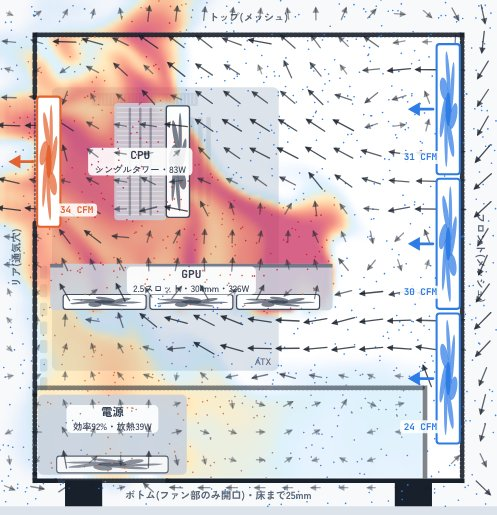
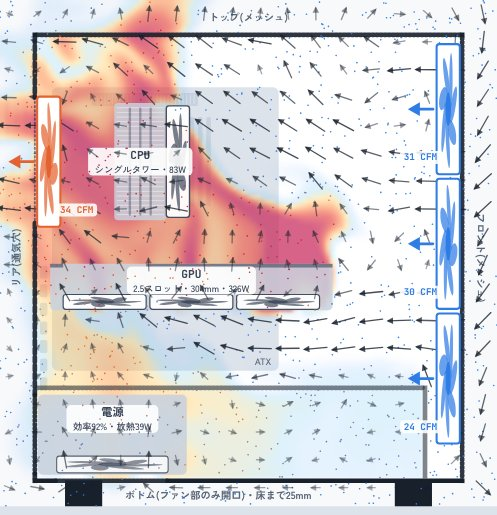
RTX 5070 のGPU温度の補正を見直し(k 0.88→1.10)
5070 のGPU温度が高めに出ていたため、チップの補正を変更。根拠は実測ではなく、
レビューで一般的な温度帯についての目安(出典の照合なし)。DIAG_VER を
sheet-v67-gpu5070 に上げ、掲載中の10台を2Dで計算し直した(変わったのは5070の2台)。

Claude-Session: https://claude.ai/code/session_01ERtSn7VZWDV2BMFwCw7guZ

diff --git a/pc-sheet/index.html b/pc-sheet/index.html
@@ -1970,7 +1970,7 @@ const GPU_CHIPS=[
   {key:'5090',name:'GeForce RTX 5090',re:/5090/,tgp:575,die:750,vram:'VRAM 32GB'},
   {key:'5080',name:'GeForce RTX 5080',re:/5080/,tgp:360,die:378,vram:'VRAM 16GB'},
   {key:'5070ti',name:'GeForce RTX 5070 Ti',re:/5070\s*ti/i,tgp:300,die:378,vram:'VRAM 16GB',k:0.75},
-  {key:'5070',name:'GeForce RTX 5070',re:/5070/,tgp:250,die:263,vram:'VRAM 12GB',k:0.88},
+  {key:'5070',name:'GeForce RTX 5070',re:/5070/,tgp:250,die:263,vram:'VRAM 12GB',k:1.10,kSrc:'レビューで一般的な温度の傾向(目安)'},   // k: see GPU_CALIB (2026-11-15)
   {key:'5060ti',name:'GeForce RTX 5060 Ti',re:/5060\s*ti/i,tgp:180,die:181,vram:'VRAM 16GB',vrams:[8,16],k:0.70},   // 8 GB and 16 GB: same board power (NVIDIA); k: see GPU_CALIB
   {key:'5060',name:'GeForce RTX 5060',re:/5060/,tgp:145,die:181,vram:'VRAM 8GB',k:0.70},
   {key:'rtxpro4000sff',name:'NVIDIA RTX PRO 4000 Blackwell SFF',re:/RTX\s*PRO\s*4000\b.*\bSFF|PRO\s*4000\s*SFF/i,tgp:70,die:378,vram:'VRAM 24GB'},   // 70 W: ark-pc.co.jp 20107760 (2026-10-25). die: GB203 assumed (378 mm², not checked against a source); no in-case measurements, so k = 1
@@ -1987,7 +1987,12 @@ const GPU_CHIPS=[
    the fan % taken from the measured rpm. 5060/5060 Ti stay 0.70 (5 cards, median 0.72); 5070 0.88 (1 card), 5070 Ti 0.75
    (1 card); 5080 stays 1.0 (the user's machine and TUF agree); 5090 left at 1.0 (1 card, 1.11); RX 9060 XT 0.92 (2 cards);
    RX 9070 XT 1.15 (2 cards) and RX 9070 the same die. Radeon report the edge temperature, about 20 °C under the hotspot,
-   which is why their k is above 1. Records (private notes): gpu_calib_chips_20261013.md */
+   which is why their k is above 1. Records (private notes): gpu_calib_chips_20261013.md
+   2026-11-15: RTX 5070 0.88 → 1.10 at the author's request (the sheet read high for this chip). Not a measurement: it is the
+   assistant's general knowledge of where RTX 5070 cards usually sit in reviews at their stock fan speed (large 3-fan about
+   58-63 °C, mid 3-fan 62-67 °C, 2-fan 66-72 °C, Founders Edition mid-70s at ~25 °C room; ±4 °C, no source checked).
+   That range alone would give about 1.2; 1.10 keeps the sheet on the warm side and is close to what the RTX 5080 fit (k = 1)
+   implies for this die and power (~1.0). The one hwcooling card that gave 0.88 now reads about 6 °C under its measurement. */
 const GPU_CALIB_SRC='hwcooling.net のケース内実測';
 function chipOf(name){if(!name)return null;for(const c of GPU_CHIPS)if(c.re.test(name))return c;return null;}
 function chipByKey(k){return GPU_CHIPS.find(c=>c.key===k)||null;}
@@ -4789,7 +4794,7 @@ function renderPartsUI(){
   $('radposbox').hidden=c.type!=='aio';$('radpos').value=state.radPos;
   // graphics card
   const row=gpuRow(), chip=row?chipOf(row.name):null, gb=state.gpuBrand;
-  $('g-chip').textContent=!row?'構成表にGPUの行がありません。':chip?`構成表のGPU:${chip.name}${chip.vrams?` ${rowVram(row,chip)}GB`:''}(標準 ${chipTgp(chip,rowVram(row,chip))}W${chip.k?`・冷え方は${GPU_CALIB_SRC}で補正`:''})`:`構成表のGPU:${row.name||'未入力'}(製品データがないため一般的なサイズで計算)`;
+  $('g-chip').textContent=!row?'構成表にGPUの行がありません。':chip?`構成表のGPU:${chip.name}${chip.vrams?` ${rowVram(row,chip)}GB`:''}(標準 ${chipTgp(chip,rowVram(row,chip))}W${chip.k?`・冷え方は${chip.kSrc||GPU_CALIB_SRC}で補正`:''})`:`構成表のGPU:${row.name||'未入力'}(製品データがないため一般的なサイズで計算)`;
   const has=b=>chip&&GPU_CARDS.some(x=>x.brand===b&&x.chip===chip.key);
   fillSelect($('g-brand'),'<option value="generic">一般的なカード(メーカー不明)</option>'+GPU_BRANDS.map(b=>`<option value="${esc(b)}">${esc(b)}${chip&&!has(b)?'(このGPUなし)':''}</option>`).join('')+'<option value="custom">カスタム(分かる値だけ入力)</option>',gb);
   let mh='';
@@ -7355,7 +7360,7 @@ $('p3d').onchange=e=>{state.view.panel3d=e.target.value;save();};
 $('f3d').onchange=e=>{state.view.flow3d=e.target.value;save();};
 
 /* ---------- 3D self-check: a fixed set of configurations, 2D and 3D, checked and stored ---------- */
-const DIAG_VER='sheet-v66-side';
+const DIAG_VER='sheet-v67-gpu5070';
 const setCool=(id,pos)=>{state.coolerBrand='generic';state.coolerModel=id;if(pos)state.radPos=pos;};
 const DIAG_CFG=[
   {k:'now',t:'今の構成',now:true},
